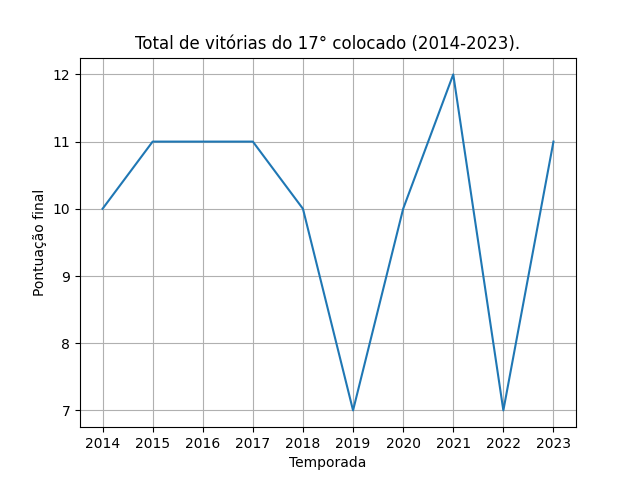
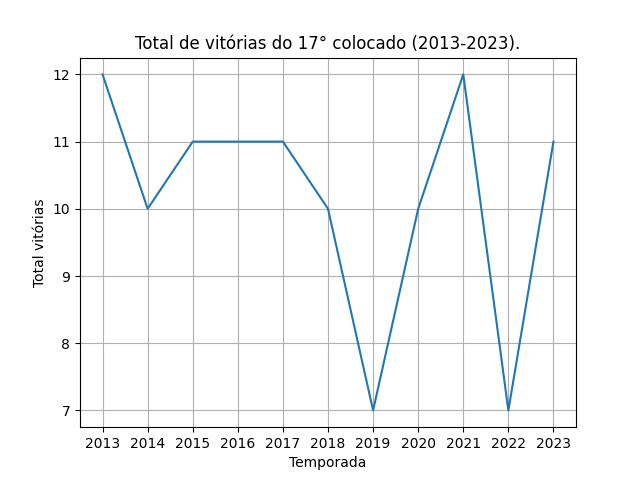
update

diff --git a/main.py b/main.py
@@ -15,13 +15,13 @@ def extrai_tabelas_da_url(links: list):
 
         # Filtra a tabela de Confronto pela sua dimensão e transforma em um arquivo .xlsx
         for tabela in lista_tabelas:
-            if tabela.shape == (20, 11):
+            if tabela.shape == (20, 11) or tabela.shape == (20, 12) or tabela.shape == (20, 13):
                 dataframe = DataFrame(tabela)
                 lista_dataframe.append(dataframe)
     return lista_dataframe
                 
 urls = [
-        f"https://pt.wikipedia.org/wiki/Campeonato_Brasileiro_de_Futebol_de_{ano}_-_Série_A" 
+        f"https://pt.wikipedia.org/wiki/Campeonato_Brasileiro_de_Futebol_de_{ano}_-_Série_A"
         for ano in range(2013, 2024)
        ]
 
@@ -33,24 +33,23 @@ vitorias_por_temporada = []
 for arquivo in extrai_tabelas_da_url(urls):
     # Deletando as linhas e colunas irrelevantes.
     arquivo = arquivo.drop(axis=0, index=[0, 1, 2, 3, 4, 5, 6, 7, 8, 9, 10, 11, 12, 13, 14, 15, 17, 18, 19])
-    
-    # Tratando uma coluna específica que varia de nome
-    if "Classificação ou descenso" in arquivo.columns:
-        arquivo.pop("Classificação ou descenso")
-    else:
-        arquivo.pop("Unnamed: 10")
-    
+
+    if "P" in arquivo.columns:
+        arquivo = arquivo.rename(columns={"P": "Pts"})
+
     # Removendo possiveis caracteres que não sejam numeros da coluna Pts, transformando em numeros e somando posteriormente.
     arquivo["Pts"] = arquivo["Pts"].apply(lambda pontos: re.sub(r'\D', '', str(pontos)))
     arquivo["Pts"] = to_numeric(arquivo["Pts"])
 
-    pontos_por_temporada.append(int(arquivo["Pts"].iloc[0]))
+    pontos = int(arquivo["Pts"].iloc[0])
+    pontos_por_temporada.append(44 if pontos == 443 else pontos)
 
     arquivo["V"] = to_numeric(arquivo["V"])
-    vitorias_por_temporada.append(int(arquivo["V"].iloc[0]))
+    
+    vitorias = int(arquivo["V"].iloc[0])
+    vitorias_por_temporada.append(vitorias)
 
-
-x_temporadas = [ano for ano in range(2014, 2024)]
+x_temporadas = [ano for ano in range(2013, 2024)]
 
 # Criação do gráfico de pontos por temporada.
 fig, ax = plt.subplots()
@@ -60,7 +59,7 @@ ax.grid()
 
 plt.xlabel("Temporada")
 plt.ylabel("Pontuação final")
-plt.title("Pontuação final do 17° colocado (2014-2023).")
+plt.title("Pontuação final do 17° colocado (2013-2023).")
 plt.savefig("./Graficos/pontosXtemporada.png")
 plt.show()
 
@@ -71,8 +70,8 @@ ax.set_xticks(x_temporadas)
 ax.grid()
 
 plt.xlabel("Temporada")
-plt.ylabel("Pontuação final")
-plt.title("Total de vitórias do 17° colocado (2014-2023).")
+plt.ylabel("Total vitórias")
+plt.title("Total de vitórias do 17° colocado (2013-2023).")
 plt.savefig("./Graficos/vitoriasXtemporada.png")
 plt.show()
 
@@ -80,7 +79,7 @@ plt.show()
 plt.scatter(pontos_por_temporada, vitorias_por_temporada)
 plt.xlabel("Pontos")
 plt.ylabel("Vitórias")
-plt.title("Correlação entre Vitórias e Pontos no Brasileirão (2014-2023)")
+plt.title("Correlação entre Vitórias e Pontos no Brasileirão (2013-2023)")
 
 # Criação da linha de tendencia do gráfico de vitorias x pontos
 z = np.polyfit(pontos_por_temporada, vitorias_por_temporada, 1)
